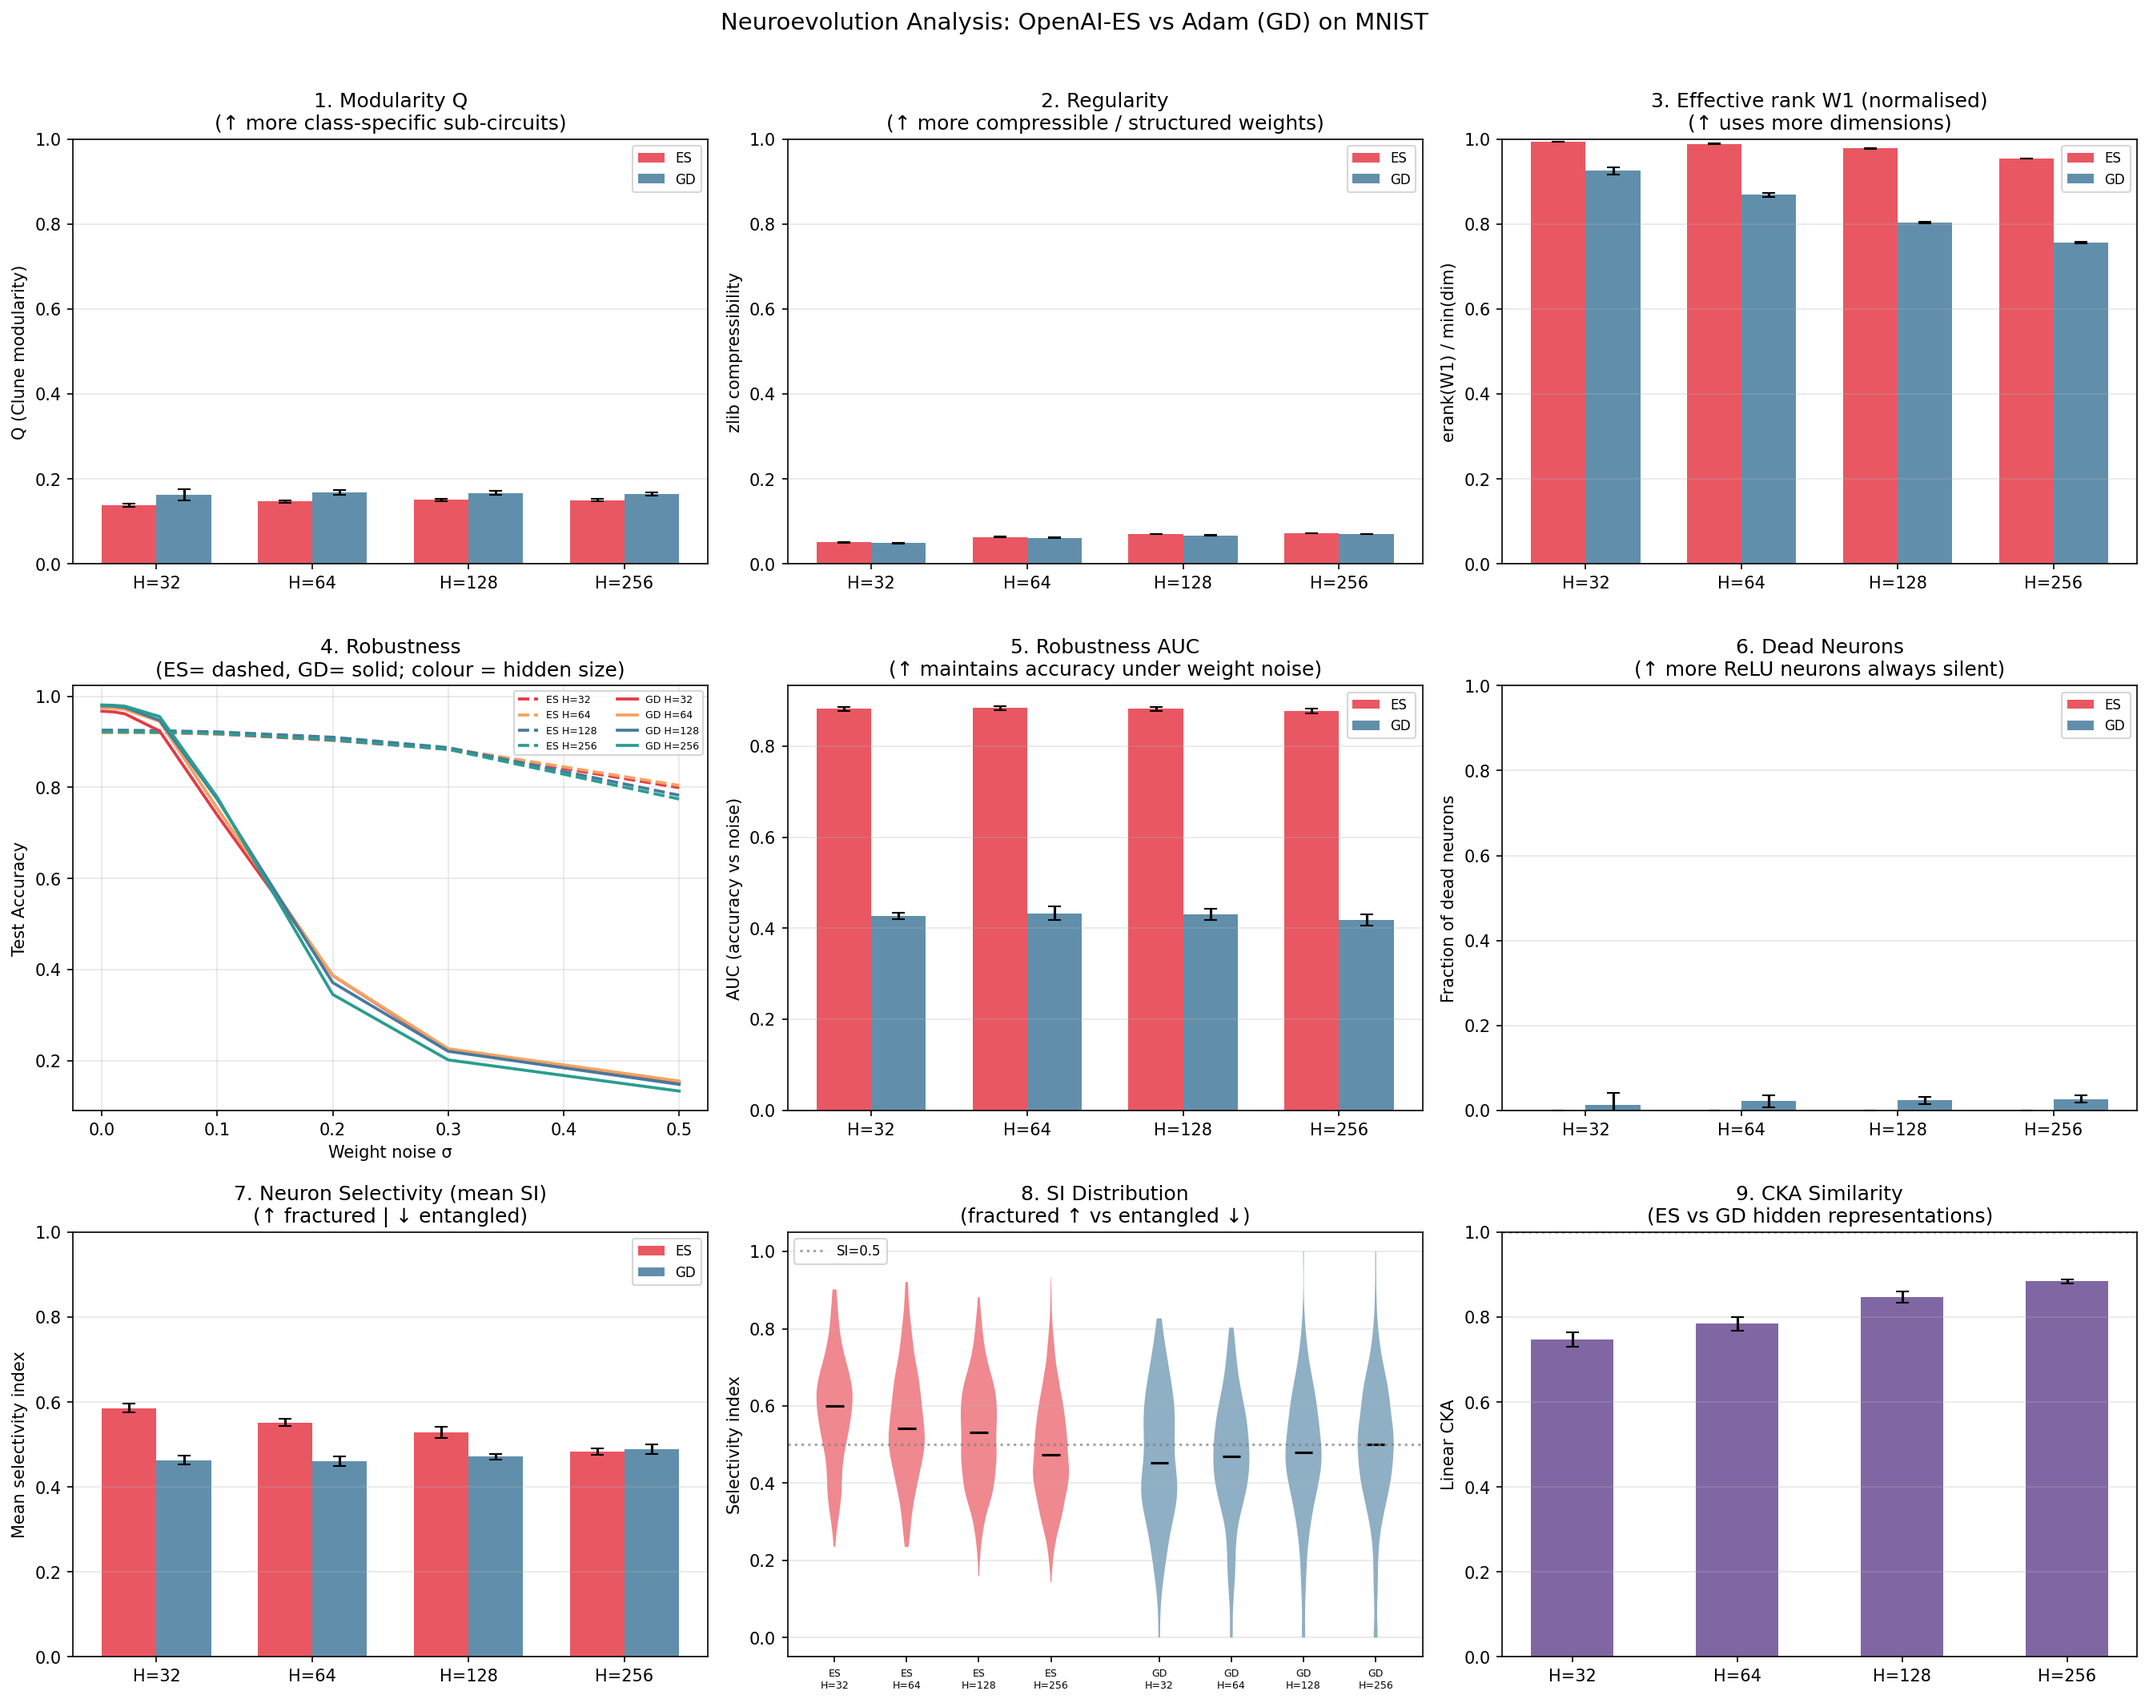
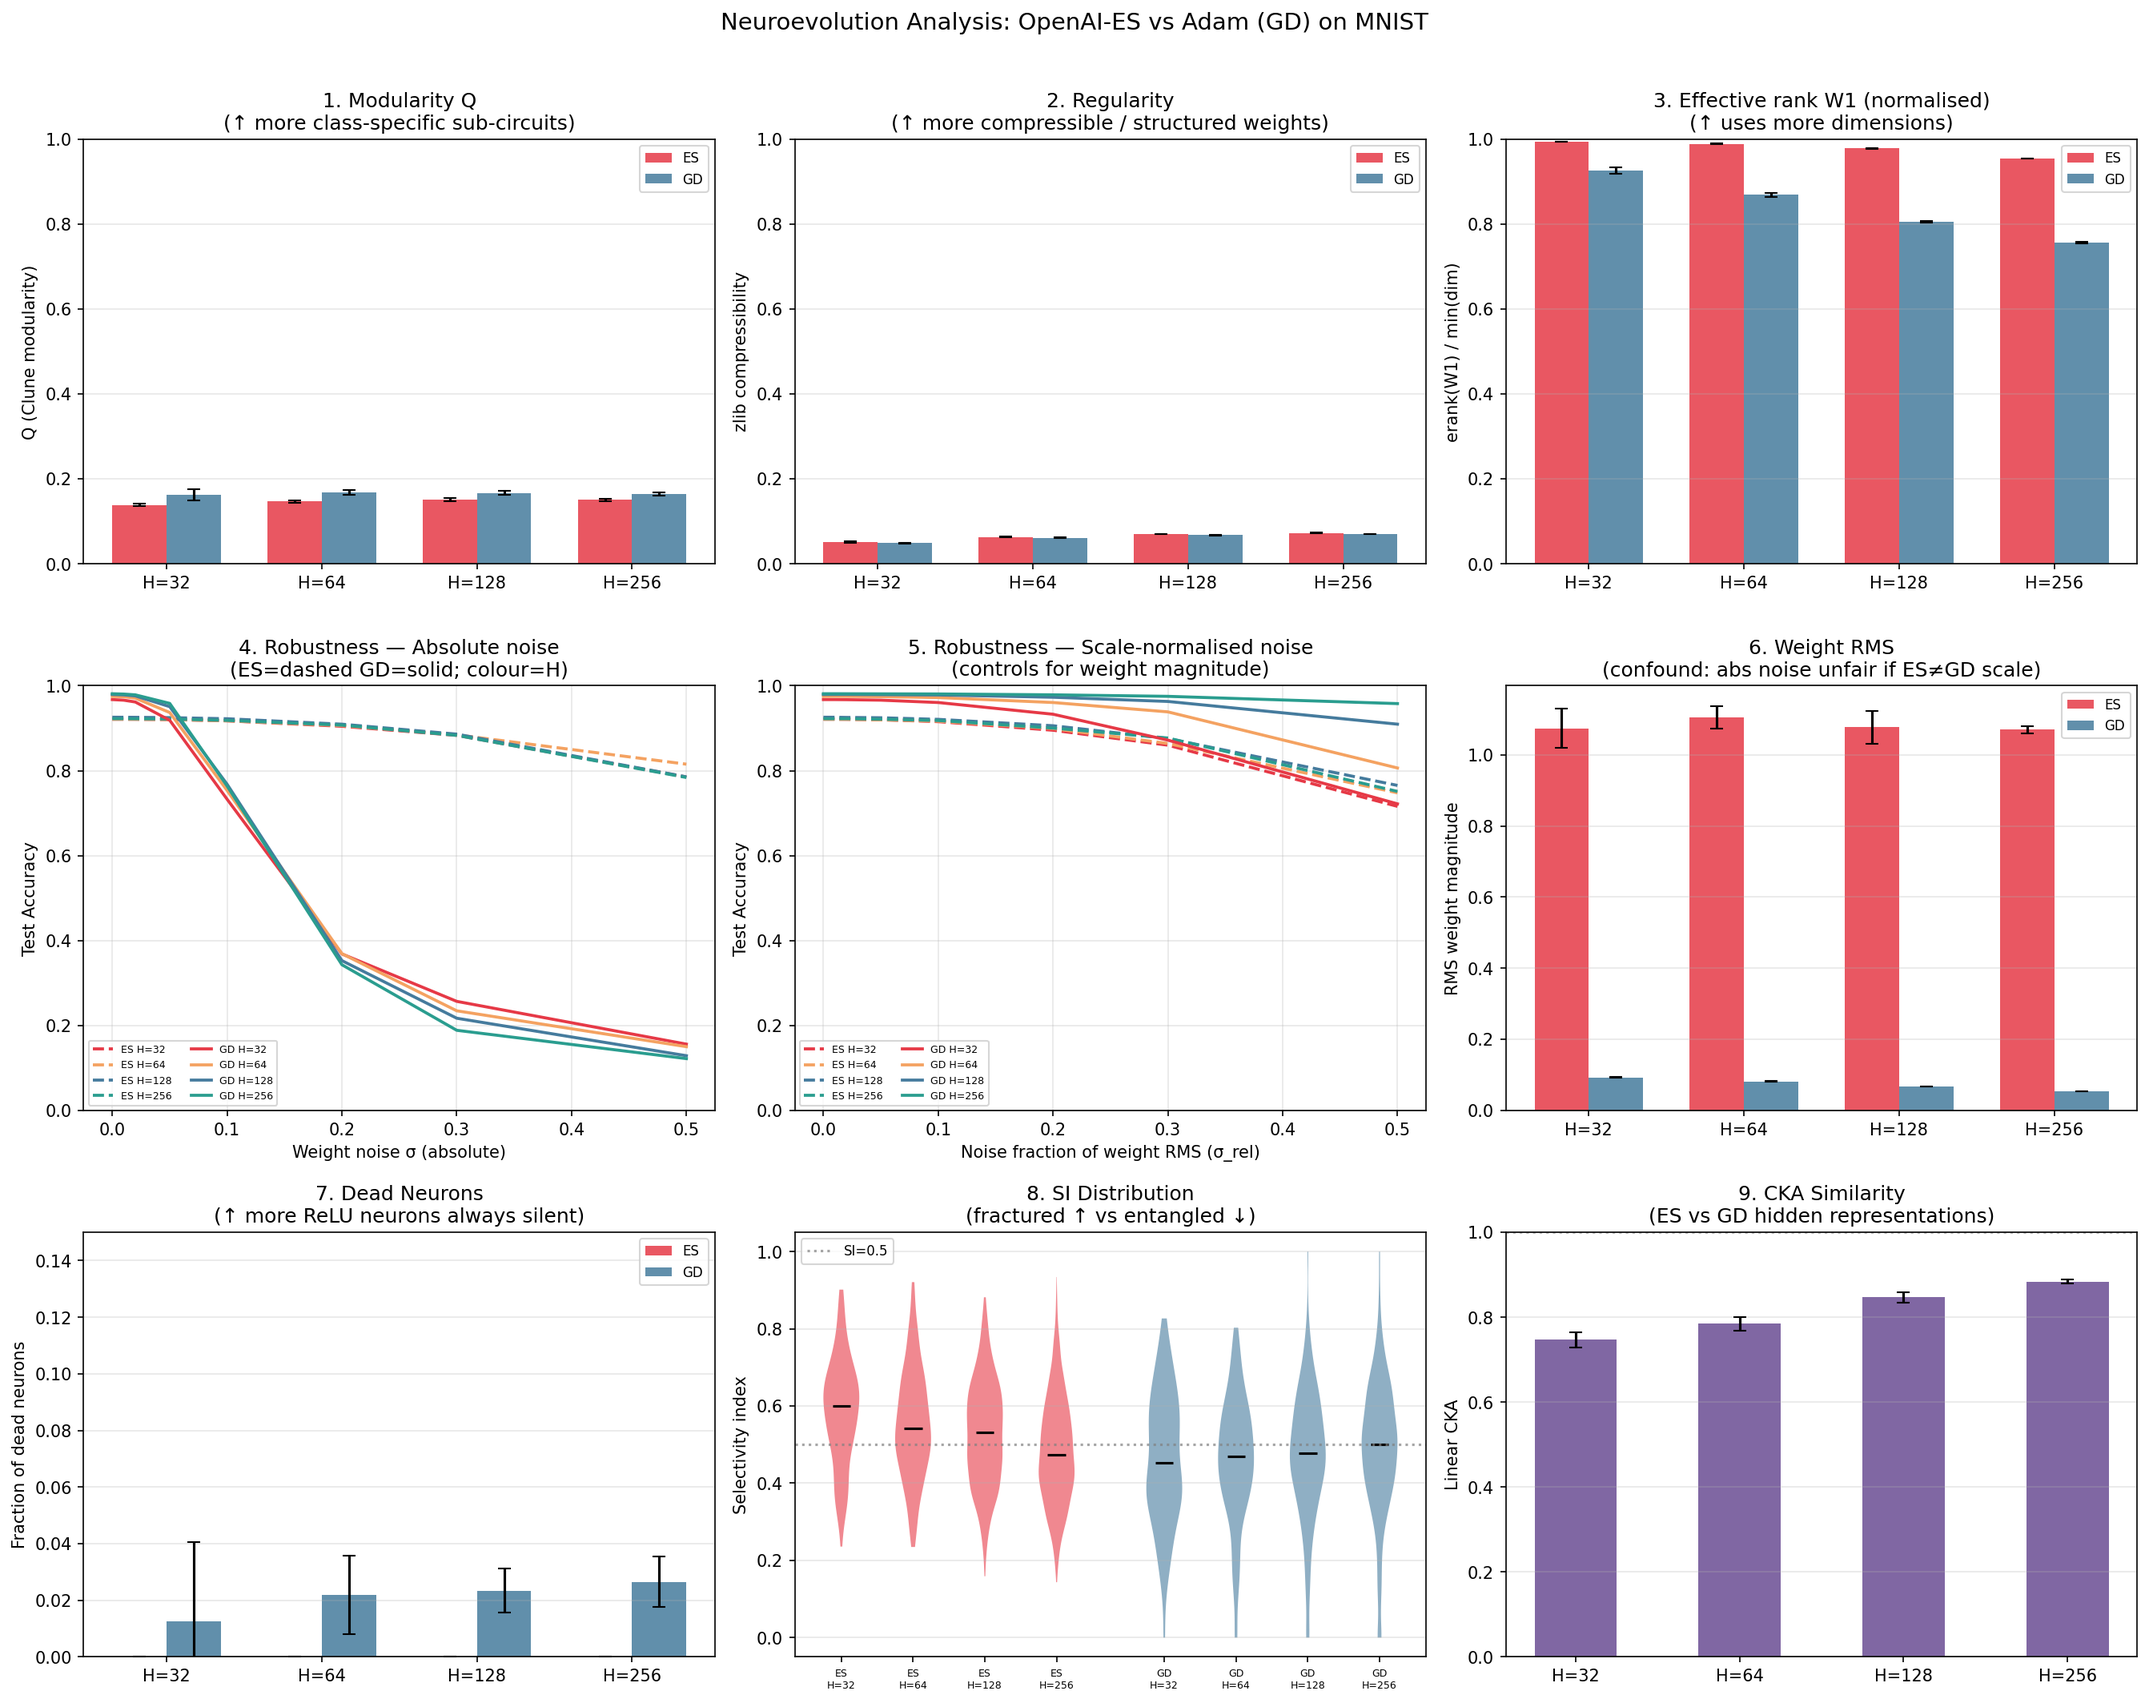
new robustness

diff --git a/analysis.py b/analysis.py
@@ -176,27 +176,52 @@ def effective_ranks(model: FFN) -> dict:
 # 4. Robustness (accuracy vs weight noise)
 # ─────────────────────────────────────────────────────────────────────────────
 
+def weight_rms(model: FFN) -> float:
+    """RMS weight magnitude across all parameters."""
+    total_sq = sum(p.data.pow(2).sum().item() for p in model.parameters())
+    total_n  = sum(p.numel() for p in model.parameters())
+    return float((total_sq / total_n) ** 0.5)
+
+
 @torch.no_grad()
 def robustness_curve(model: FFN, X: torch.Tensor, y: torch.Tensor,
-                     sigmas=NOISE_SIGMAS, n_trials=5) -> list[float]:
+                     sigmas=NOISE_SIGMAS, n_trials=5) -> tuple:
     """
-    For each σ in sigmas: add IID Gaussian noise N(0,σ²) to all weights,
-    average accuracy over n_trials.
+    Returns (abs_curve, rel_curve).
+
+    abs_curve: noise added as absolute N(0, sigma^2) — confounded by weight scale.
+    rel_curve: noise scaled by per-parameter RMS, so sigma is SNR-matched.
+               sigma_eff = sigma * rms(param) per tensor.
+
+    If ES weights are smaller than GD weights, absolute noise is already a
+    larger relative hit on ES — so ES being *more* robust on abs_curve is if
+    anything a conservative estimate. rel_curve removes this doubt entirely.
     """
     original = {n: p.data.clone() for n, p in model.named_parameters()}
-    accs = []
+    abs_accs, rel_accs = [], []
+
     for sigma in sigmas:
-        trial_accs = []
+        abs_trials, rel_trials = [], []
         for _ in range(n_trials):
+            # absolute noise
             for p in model.parameters():
                 p.data += torch.randn_like(p.data) * sigma
-            logits = model(X)
-            trial_accs.append((logits.argmax(1) == y).float().mean().item())
-            # restore
+            abs_trials.append((model(X).argmax(1) == y).float().mean().item())
             for name, p in model.named_parameters():
                 p.data.copy_(original[name])
-        accs.append(float(np.mean(trial_accs)))
-    return accs
+
+            # relative noise: sigma * rms(param) per tensor
+            for p in model.parameters():
+                rms = p.data.pow(2).mean().sqrt().clamp(min=1e-8)
+                p.data += torch.randn_like(p.data) * sigma * rms
+            rel_trials.append((model(X).argmax(1) == y).float().mean().item())
+            for name, p in model.named_parameters():
+                p.data.copy_(original[name])
+
+        abs_accs.append(float(np.mean(abs_trials)))
+        rel_accs.append(float(np.mean(rel_trials)))
+
+    return abs_accs, rel_accs
 
 
 # ─────────────────────────────────────────────────────────────────────────────
@@ -325,11 +350,14 @@ def main():
         # 3. Effective rank
         er = effective_ranks(model)
 
-        # 4. Robustness curve
-        rob = robustness_curve(model, X_test, y_test)
-        rob_curves[(method, hidden, seed)] = rob
-        rob_auc = float(np.trapezoid(rob, NOISE_SIGMAS) /
-                        (NOISE_SIGMAS[-1] - NOISE_SIGMAS[0]))
+        # 4. Robustness curve — both absolute and relative (scale-controlled)
+        wrms = weight_rms(model)
+        abs_rob, rel_rob = robustness_curve(model, X_test, y_test)
+        rob_curves[(method, hidden, seed)] = (abs_rob, rel_rob)
+        _trapz       = getattr(np, "trapezoid", None) or np.trapz
+        span         = NOISE_SIGMAS[-1] - NOISE_SIGMAS[0]
+        rob_auc_abs  = float(_trapz(abs_rob, NOISE_SIGMAS) / span)
+        rob_auc_rel  = float(_trapz(rel_rob, NOISE_SIGMAS) / span)
 
         # 5. Dead neurons
         dead = dead_neuron_fraction(model, X_test)
@@ -350,7 +378,9 @@ def main():
             regularity_mean=reg["mean"],
             erank_W1=er["erank_W1"], erank_W2=er["erank_W2"],
             erank_W1_norm=er["erank_W1_norm"], erank_W2_norm=er["erank_W2_norm"],
-            robustness_auc=rob_auc,
+            robustness_auc_abs=rob_auc_abs,
+            robustness_auc_rel=rob_auc_rel,
+            weight_rms=wrms,
             dead_neuron_frac=dead,
             si_mean=si["si_mean"], si_std=si["si_std"],
             si_frac_high=si["si_frac_high"],
@@ -358,7 +388,8 @@ def main():
 
         print(f"  acc={acc:.4f}  Q={Q:.3f}  reg={reg['mean']:.3f}  "
               f"erank_W1={er['erank_W1']:.1f}  dead={dead:.3f}  "
-              f"SI={si['si_mean']:.3f}")
+              f"SI={si['si_mean']:.3f}  wrms={wrms:.4f}  "
+              f"rob_abs={rob_auc_abs:.3f}  rob_rel={rob_auc_rel:.3f}")
 
     # ── CKA: compare ES vs GD representations ───────────────────────────────
     print("\nComputing CKA (ES vs GD) …")
@@ -433,41 +464,53 @@ def plot_analysis(df, rob_curves, si_dists, cka_matrix):
                  "3. Effective rank W1 (normalised)\n(↑ uses more dimensions)")
     ax.set_ylim(0, 1)
 
-    # ── 4. Robustness curves — mean over seeds, per hidden size ───────────────
+    # ── 4. Robustness abs curves ─────────────────────────────────────────────
     ax = axes[1, 0]
     for method in ("ES", "GD"):
         ls = "--" if method == "ES" else "-"
         for h in HIDDEN_SIZES:
-            curves = [rob_curves[(method, h, s)]
-                      for s in SEEDS if (method, h, s) in rob_curves]
-            if not curves:
+            pairs = [rob_curves[(method, h, s)]
+                     for s in SEEDS if (method, h, s) in rob_curves]
+            if not pairs:
                 continue
-            mean_curve = np.mean(curves, axis=0)
-            ax.plot(NOISE_SIGMAS, mean_curve,
+            mean_abs = np.mean([p[0] for p in pairs], axis=0)
+            ax.plot(NOISE_SIGMAS, mean_abs,
                     color=COLORS_HIDDEN[h], linestyle=ls, linewidth=1.8,
                     label=f"{method} H={h}")
-    ax.set_xlabel("Weight noise σ")
+    ax.set_xlabel("Weight noise σ (absolute)")
     ax.set_ylabel("Test Accuracy")
-    ax.set_title("4. Robustness\n(ES= dashed, GD= solid; colour = hidden size)")
-    ax.legend(fontsize=6, ncol=2)
-    ax.grid(True, alpha=0.3)
+    ax.set_title("4. Robustness — Absolute noise\n(ES=dashed GD=solid; colour=H)")
+    ax.legend(fontsize=6, ncol=2); ax.grid(True, alpha=0.3); ax.set_ylim(0, 1)
 
-    # ── 5. Robustness AUC bar chart ───────────────────────────────────────────
+    # ── 5. Robustness rel curves (scale-corrected) ───────────────────────────
     ax = axes[1, 1]
-    grouped_bars(ax, df, "robustness_auc", "AUC (accuracy vs noise)",
-                 "5. Robustness AUC\n(↑ maintains accuracy under weight noise)")
+    for method in ("ES", "GD"):
+        ls = "--" if method == "ES" else "-"
+        for h in HIDDEN_SIZES:
+            pairs = [rob_curves[(method, h, s)]
+                     for s in SEEDS if (method, h, s) in rob_curves]
+            if not pairs:
+                continue
+            mean_rel = np.mean([p[1] for p in pairs], axis=0)
+            ax.plot(NOISE_SIGMAS, mean_rel,
+                    color=COLORS_HIDDEN[h], linestyle=ls, linewidth=1.8,
+                    label=f"{method} H={h}")
+    ax.set_xlabel("Noise fraction of weight RMS (σ_rel)")
+    ax.set_ylabel("Test Accuracy")
+    ax.set_title("5. Robustness — Scale-normalised noise\n(controls for weight magnitude)")
+    ax.legend(fontsize=6, ncol=2); ax.grid(True, alpha=0.3); ax.set_ylim(0, 1)
 
-    # ── 6. Dead neurons ───────────────────────────────────────────────────────
+    # ── 6. Weight RMS — checks whether scale confounds robustness ────────────
     ax = axes[1, 2]
-    grouped_bars(ax, df, "dead_neuron_frac", "Fraction of dead neurons",
-                 "6. Dead Neurons\n(↑ more ReLU neurons always silent)")
-    ax.set_ylim(0, 1)
+    grouped_bars(ax, df, "weight_rms", "RMS weight magnitude",
+                 "6. Weight RMS\n(confound check: if ES << GD, abs noise is unfair)")
+    ax.set_title("6. Weight RMS\n(confound: abs noise unfair if ES≠GD scale)")
 
-    # ── 7. Selectivity index (mean) ───────────────────────────────────────────
+    # ── 7. Dead neurons ───────────────────────────────────────────────────────
     ax = axes[2, 0]
-    grouped_bars(ax, df, "si_mean", "Mean selectivity index",
-                 "7. Neuron Selectivity (mean SI)\n(↑ fractured | ↓ entangled)")
-    ax.set_ylim(0, 1)
+    grouped_bars(ax, df, "dead_neuron_frac", "Fraction of dead neurons",
+                 "7. Dead Neurons\n(↑ more ReLU neurons always silent)")
+    ax.set_ylim(0, 0.15)
 
     # ── 8. Selectivity distributions (violin) ────────────────────────────────
     ax = axes[2, 1]
@@ -533,22 +576,24 @@ def plot_analysis(df, rob_curves, si_dists, cka_matrix):
     print("  ANALYSIS SUMMARY — mean ± std across seeds")
     print("═" * 80)
     metrics = [
-        ("accuracy",        "Accuracy"),
-        ("modularity_Q",    "Modularity Q"),
-        ("regularity_mean", "Regularity"),
-        ("erank_W1_norm",   "Eff.rank W1 (norm)"),
-        ("robustness_auc",  "Robustness AUC"),
-        ("dead_neuron_frac","Dead neurons"),
-        ("si_mean",         "SI mean"),
-        ("si_frac_high",    "SI frac > 0.5"),
+        ("accuracy",             "Accuracy"),
+        ("weight_rms",           "Weight RMS"),
+        ("modularity_Q",         "Modularity Q"),
+        ("regularity_mean",      "Regularity"),
+        ("erank_W1_norm",        "Eff.rank W1 (norm)"),
+        ("robustness_auc_abs",   "Robustness AUC (abs)"),
+        ("robustness_auc_rel",   "Robustness AUC (rel)"),
+        ("dead_neuron_frac",     "Dead neurons"),
+        ("si_mean",              "SI mean"),
+        ("si_frac_high",         "SI frac > 0.5"),
     ]
-    hdr = f"{'Metric':<22}" + "".join(
+    hdr = f"{'Metric':<26}" + "".join(
         f"  ES H={h:<4d}   GD H={h:<4d}" for h in HIDDEN_SIZES
     )
     print(hdr)
     print("─" * len(hdr))
     for col, label in metrics:
-        row = f"{label:<22}"
+        row = f"{label:<26}"
         for h in HIDDEN_SIZES:
             for method in ("ES", "GD"):
                 m, s = summary_stat(df, col, method, h)
